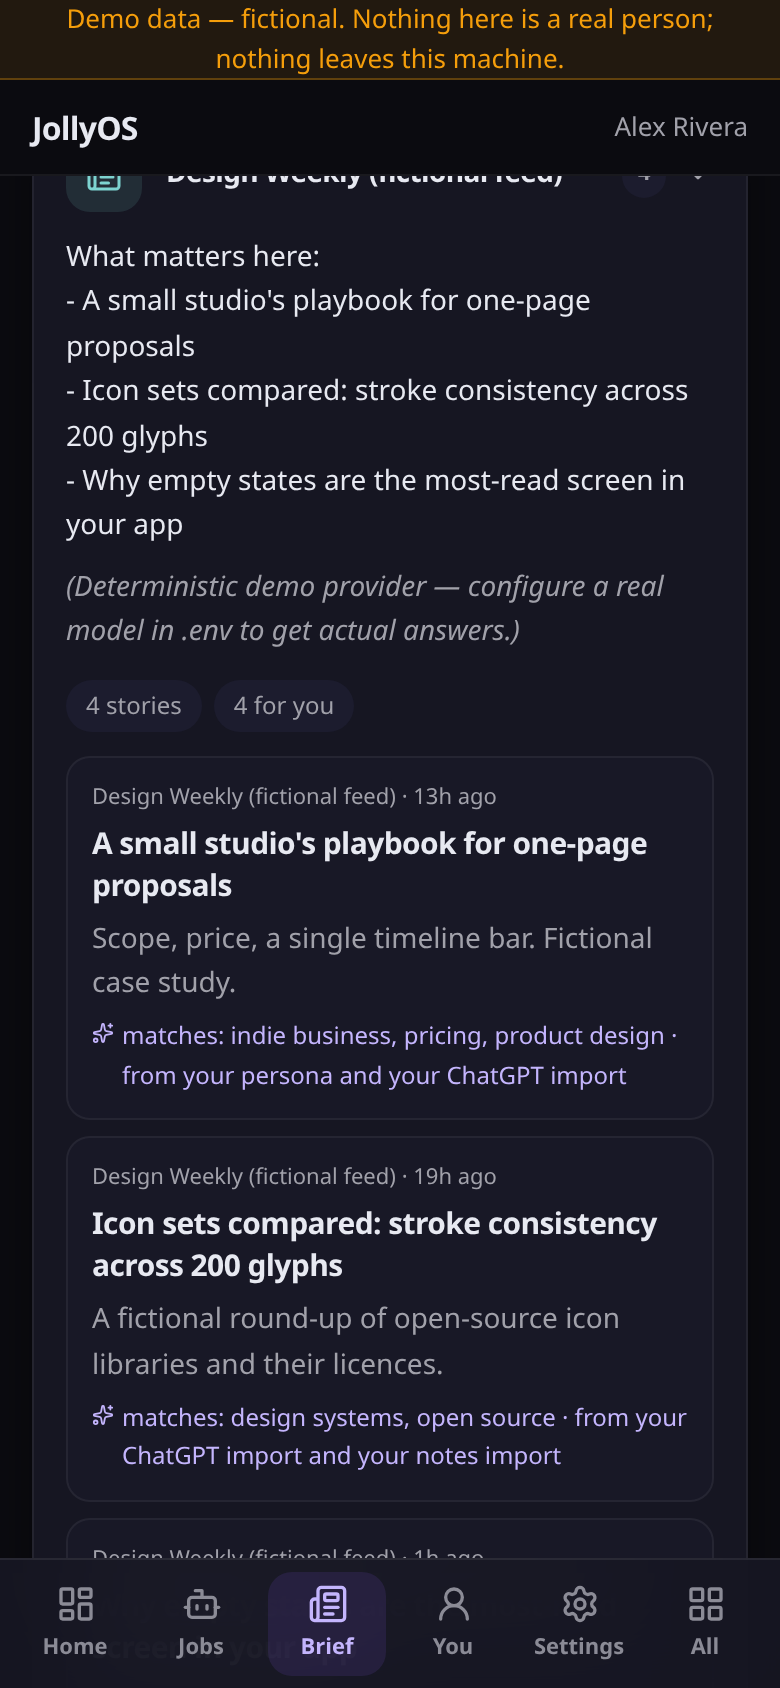
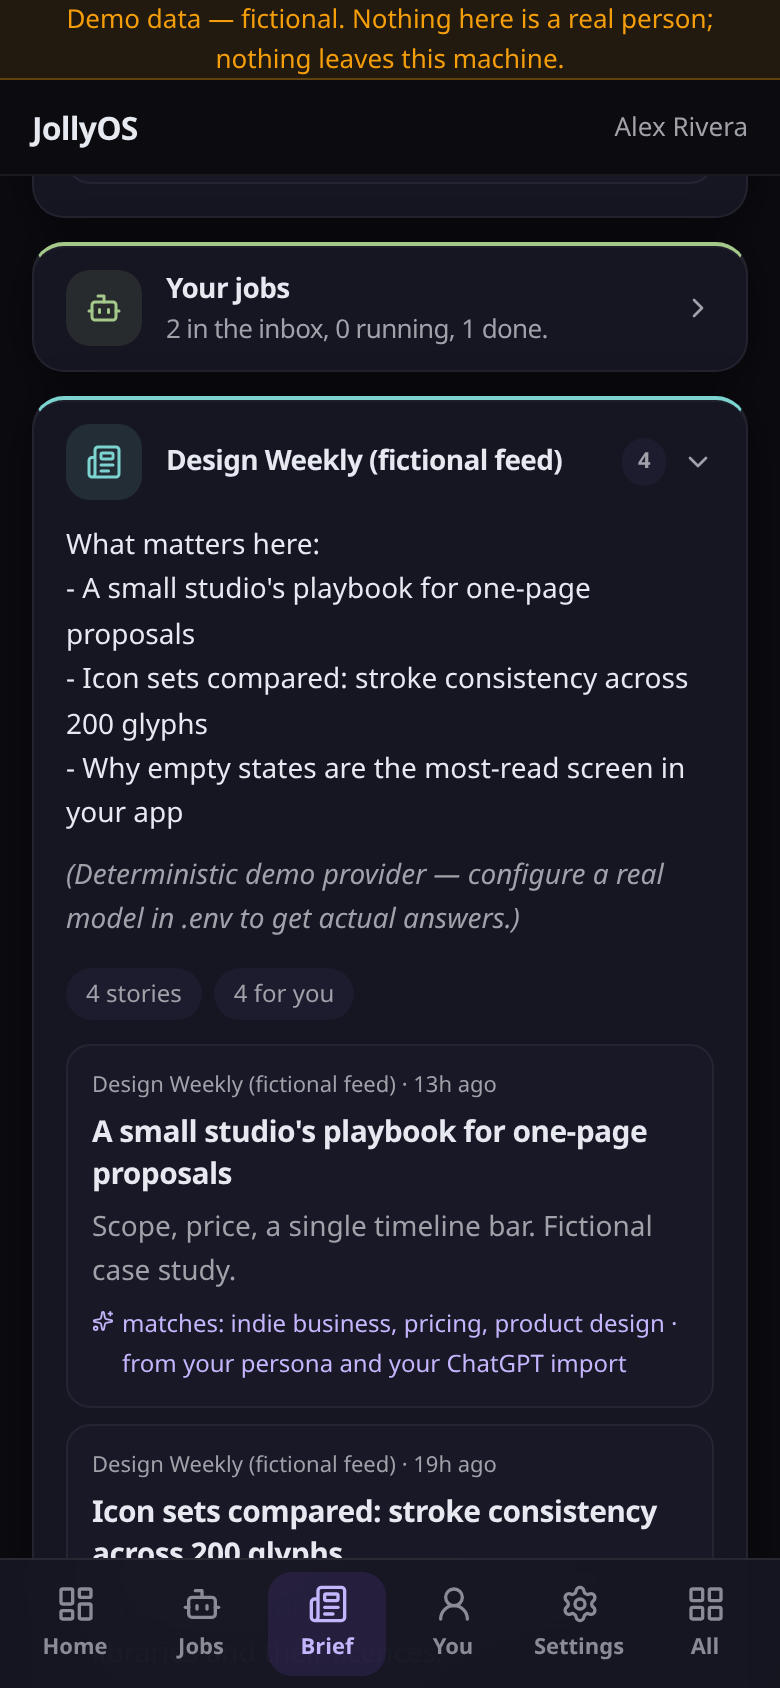
chore: commit-msg guard against co-author trailers; agent notes; phone Brief screenshot shows its section header

diff --git a/CONTRIBUTING.md b/CONTRIBUTING.md
@@ -43,3 +43,9 @@ CI runs the same list plus gitleaks over the full history.
 
 `type(scope): what changed` — e.g. `feat(brief): atom feed support`,
 `fix(auth): clear cookie on logout`. Keep the subject under 72 characters.
+
+## Commit messages (people and AI agents)
+
+- Enable the repo's hooks once per clone: `git config core.hooksPath .githooks`.
+- No `Co-Authored-By:` trailers and no email addresses other than `@example.com` in commit messages. The `commit-msg` hook rejects them; CI's history scrub fails on them.
+- AI coding agents: turn co-author attribution off (Claude Code: `includeCoAuthoredBy: false`, already set in `.claude/settings.json`; see also `CLAUDE.md`).

diff --git a/CLAUDE.md b/CLAUDE.md
@@ -1,0 +1,6 @@
+# Notes for coding agents
+
+- Never add a `Co-Authored-By:` trailer (or any email address other than `@example.com`) to a commit message. The `commit-msg` hook in `.githooks/` rejects them and `scripts/scrub-check.sh --history` fails CI on them.
+- Commit as `JollyOS Contributors <contributors@example.com>`.
+- Run `npm run lint && npx tsc --noEmit && npm test && bash scripts/scrub-check.sh` before committing.
+- Nothing personal: all sample data is fictional (demo user "Alex Rivera").
